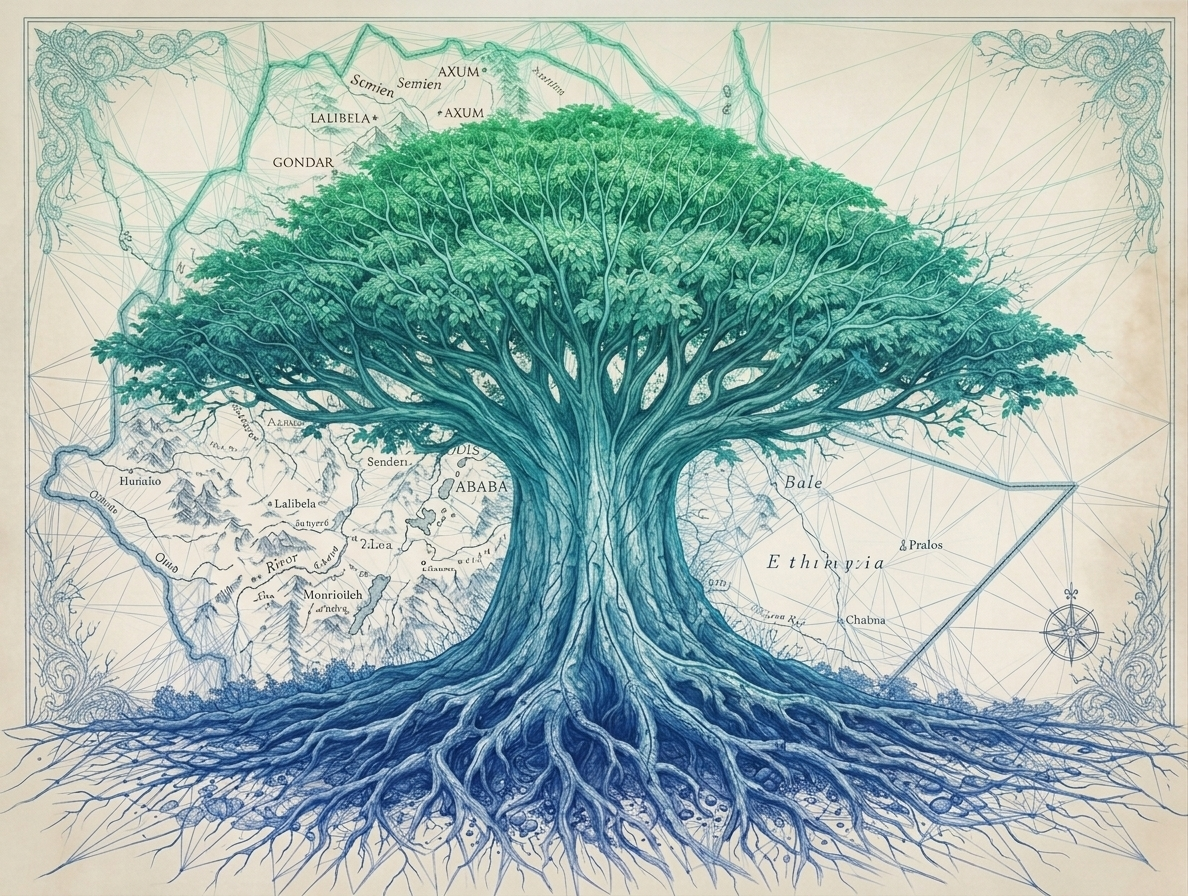
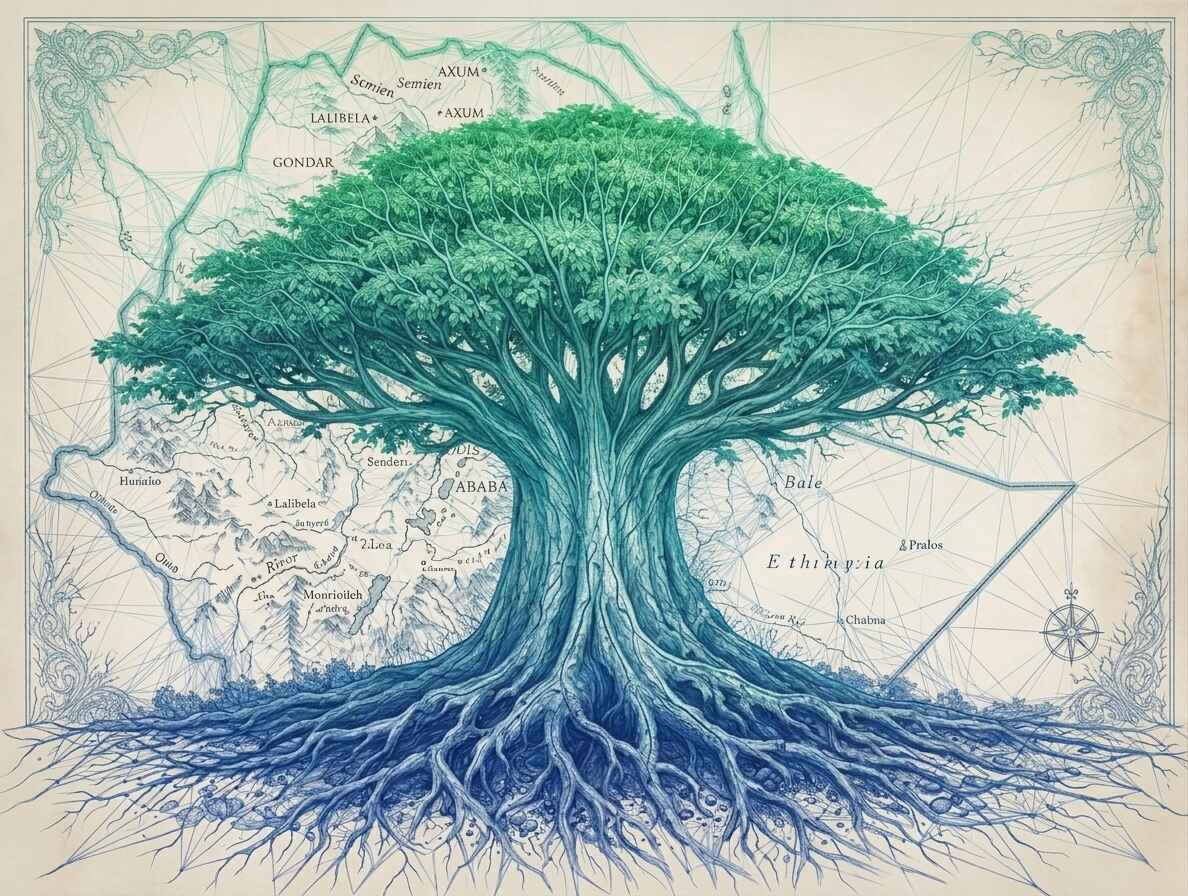
fixed landing page

diff --git a/oudaa-frontend/src/pages/Signup.jsx b/oudaa-frontend/src/pages/Signup.jsx
@@ -766,6 +766,8 @@ export default function Signup() {
     setData((prev) => ({ ...prev, ...patch }))
   }
 
+  const [attempted, setAttempted] = useState(false)
+
   const errors = useMemo(() => validateStep(step, data), [step, data])
   const asyncBlocked = useMemo(() => {
     if (step === 1) return ['checking', 'taken'].includes(emailStatus.admin)
@@ -774,12 +776,20 @@ export default function Signup() {
   }, [step, emailStatus, data.committeeMembers])
   const canAdvance = Object.keys(errors).length === 0 && !asyncBlocked
 
+  // Only expose errors to step components after the user has clicked Continue.
+  // This prevents live inline validation while the user is still typing.
+  const displayErrors = attempted ? errors : {}
+
   function goNext() {
+    setAttempted(true)
     if (!canAdvance) return
+    // Valid — reset attempted flag for the next step, then advance
+    setAttempted(false)
     if (step < 5) setStep(step + 1)
     else handleLaunch()
   }
   function goBack() {
+    setAttempted(false)
     if (step > 1) setStep(step - 1)
   }
 
@@ -886,10 +896,10 @@ export default function Signup() {
           <>
             <Stepper step={step} />
             <div className="rounded-2xl border border-ink-200 bg-white p-6 shadow-card sm:p-8 dark:border-[#2e2e2e] dark:bg-white/[0.02]">
-              {step === 1 && <StepAccount data={data} update={update} errors={errors} onEmailStatus={setEmailStatus} />}
-              {step === 2 && <StepCommunity data={data} update={update} errors={errors} />}
-              {step === 3 && <StepFees data={data} update={update} errors={errors} />}
-              {step === 4 && <StepCommittee data={data} update={update} errors={errors} onEmailStatus={setEmailStatus} />}
+              {step === 1 && <StepAccount data={data} update={update} errors={displayErrors} onEmailStatus={setEmailStatus} />}
+              {step === 2 && <StepCommunity data={data} update={update} errors={displayErrors} />}
+              {step === 3 && <StepFees data={data} update={update} errors={displayErrors} />}
+              {step === 4 && <StepCommittee data={data} update={update} errors={displayErrors} onEmailStatus={setEmailStatus} />}
               {step === 5 && <StepReview data={data} onEdit={setStep} submitError={submitError} />}
 
               <div className="mt-8 flex items-center justify-between border-t border-ink-200 pt-6 dark:border-[#2e2e2e]">
@@ -901,7 +911,7 @@ export default function Signup() {
                 >
                   <ArrowLeft size={15} /> Back
                 </button>
-                <button type="button" onClick={goNext} disabled={!canAdvance || submitting} className="btn-primary gap-1.5 px-6">
+                <button type="button" onClick={goNext} disabled={submitting} className="btn-primary gap-1.5 px-6">
                   {step === 5 ? (submitting ? 'Creating your community…' : 'Create my community') : 'Continue'}
                   {step < 5 && <ArrowRight size={15} />}
                 </button>
